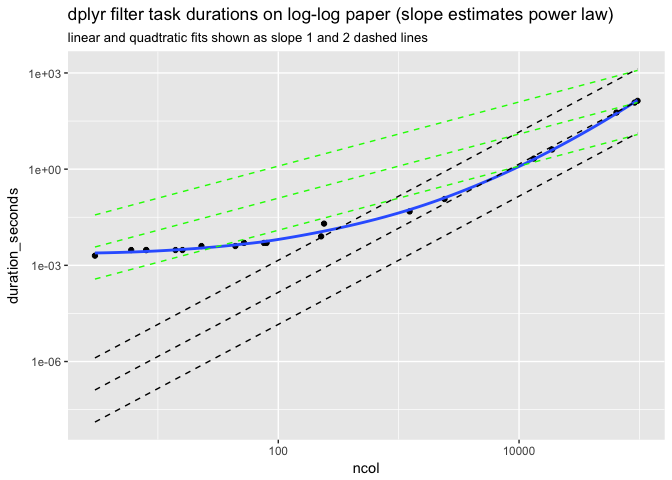
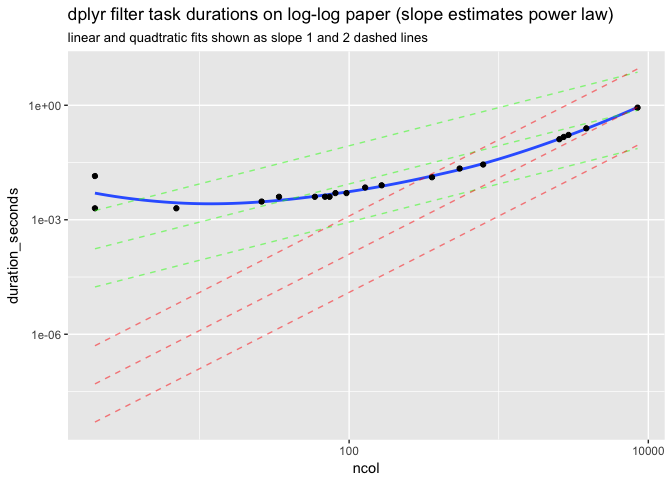
time filter

diff --git a/dplyr/filter.md b/dplyr/filter.md
@@ -13,7 +13,7 @@ system.time(write_feather(df, "df.feather"))
 ```
 
     ##    user  system elapsed 
-    ##   0.263   0.214   0.495
+    ##   0.292   0.230   0.543
 
 [R](https://www.r-project.org) timing.
 
@@ -22,7 +22,7 @@ system.time(fetched_sample <- df[df$V1>1, , drop=FALSE])
 ```
 
     ##    user  system elapsed 
-    ##   0.690   0.010   0.707
+    ##   0.695   0.011   0.712
 
 [dplyr](https://CRAN.R-project.org/package=dplyr) timing.
 
@@ -35,7 +35,7 @@ system.time(fetched_sample <- filter(tb, V1>1))
 ```
 
     ##    user  system elapsed 
-    ## 131.242   8.602 142.958
+    ## 128.828   8.643 138.815
 
 [data.table](https://CRAN.R-project.org/package=data.table) timing.
 
@@ -48,7 +48,7 @@ system.time(dt[V1>1, ])
 ```
 
     ##    user  system elapsed 
-    ##   1.858   0.032   1.942
+    ##   1.697   0.011   1.720
 
 [Python](https://www.python.org) [Pandas](https://pandas.pydata.org) timing.
 
@@ -75,7 +75,7 @@ end_time = timeit.default_timer()
 print(end_time - start_time)
 ```
 
-    ## 1.9568177759938408
+    ## 1.799780055996962
 
 ``` python
 start_time = timeit.default_timer()
@@ -86,7 +86,7 @@ end_time = timeit.default_timer()
 print(end_time - start_time)
 ```
 
-    ## 4.3670009360066615
+    ## 4.004492551990552
 
 ``` r
 library("ggplot2")
@@ -115,20 +115,20 @@ frames$quadratic_trend <- predict(mquad, newdata = frames)
 
 ggplot(frames, 
        aes(x = ncol, y = duration_seconds)) + 
+  geom_smooth(se = FALSE) +
   geom_point() + 
-  geom_smooth(se=FALSE) +
   geom_line(aes(y = linear_trend),
-            linetype = 2, color = "green") +
+            linetype = 2, color = "green", alpha=0.5) +
   geom_line(aes(y = 0.1*linear_trend),
-            linetype = 2, color = "green") +
+            linetype = 2, color = "green", alpha=0.5) +
   geom_line(aes(y = 10*linear_trend),
-            linetype = 2, color = "green") +
+            linetype = 2, color = "green", alpha=0.5) +
   geom_line(aes(y = quadratic_trend),
-            linetype = 2) +
+            linetype = 2, color = "red", alpha=0.5) +
    geom_line(aes(y = 0.1*quadratic_trend),
-            linetype = 2) +
+            linetype = 2, color = "red", alpha=0.5) +
    geom_line(aes(y = 10*quadratic_trend),
-            linetype = 2) +
+            linetype = 2, color = "red", alpha=0.5) +
   scale_y_log10() +
   scale_x_log10() + 
   ggtitle("dplyr filter task durations on log-log paper (slope estimates power law)",
